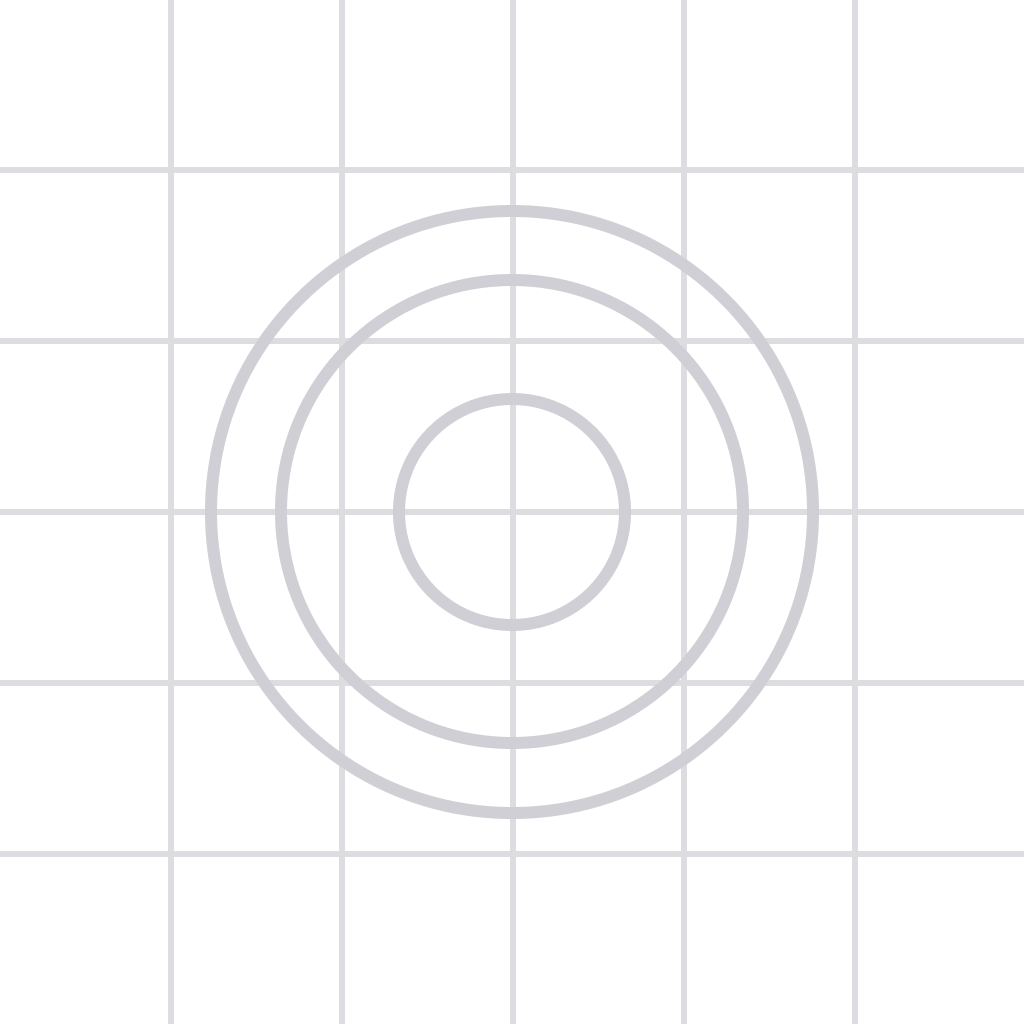
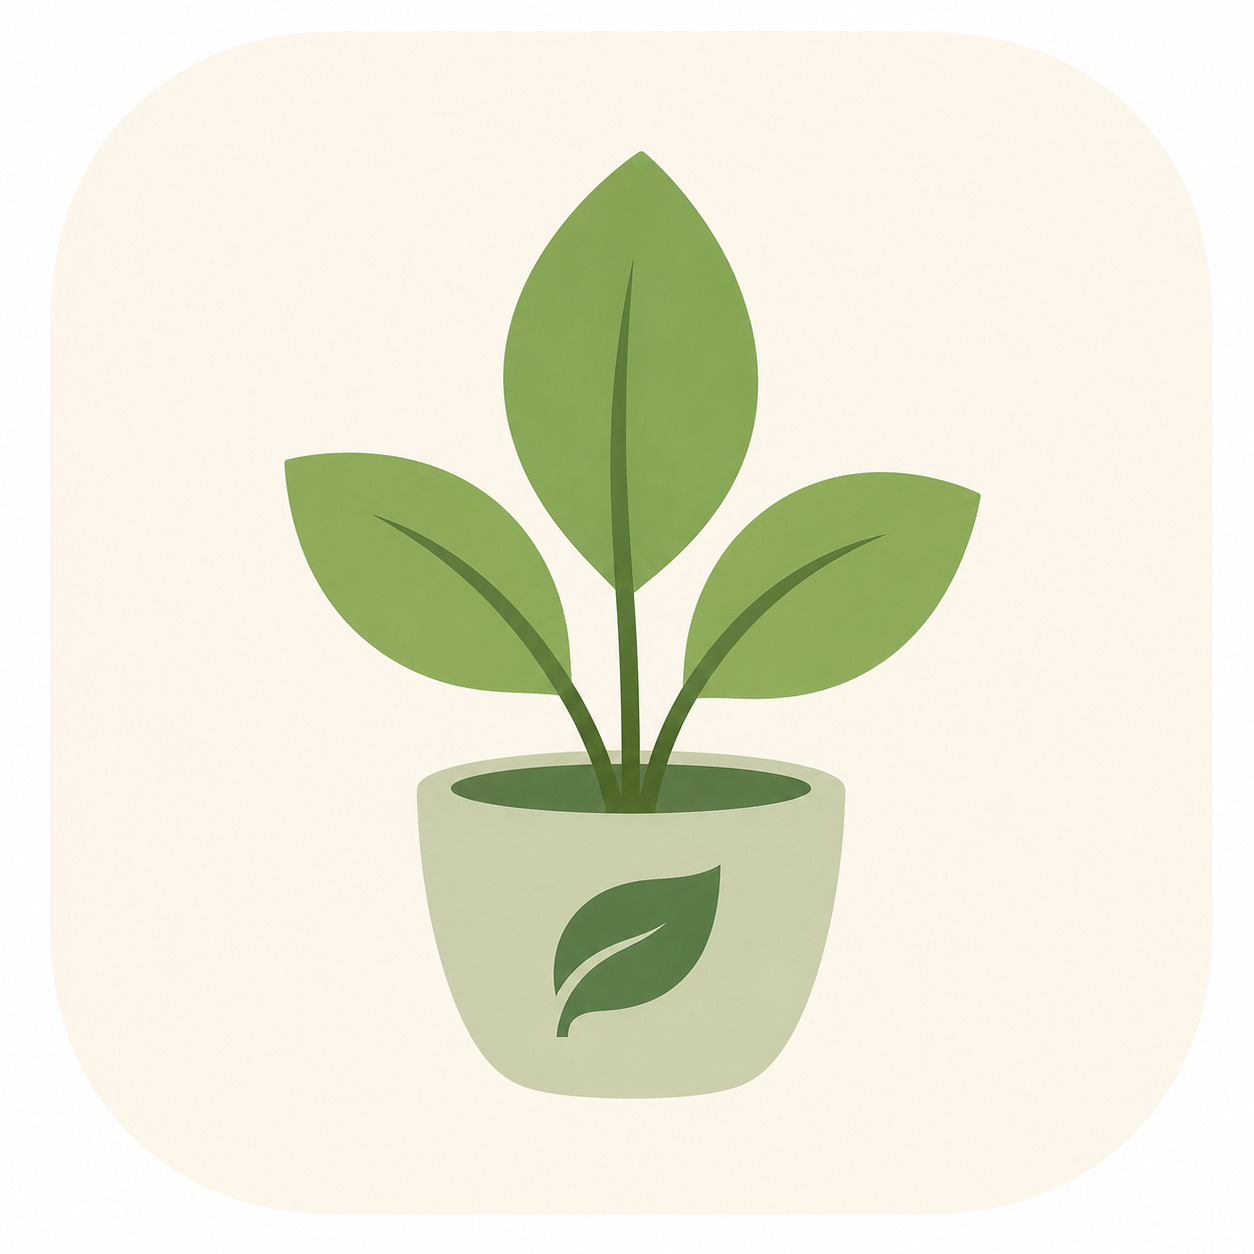
APK: Implementierung Supabase konfiguration und validation; update app struktur und dependencies

Changed region(s): [[0.0, 0.0, 1.0, 1.0]]

diff --git a/App.js b/App.js
@@ -6,7 +6,10 @@ import {
 import { NavigationContainer } from "@react-navigation/native";
 import { createNativeStackNavigator } from "@react-navigation/native-stack";
 
-import { supabase } from "./src/services/supabaseClient";
+import {
+  supabase,
+  supabaseKonfigurationOk,
+} from "./src/services/supabaseClient";
 
 import AnmeldungScreen from "./src/screens/AnmeldungScreen";
 import RegistrierungScreen from "./src/screens/RegistrierungScreen";
@@ -24,6 +27,11 @@ export default function App() {
   const [laedt, setLaedt] = useState(true);
 
   useEffect(() => {
+    if (!supabaseKonfigurationOk) {
+      setLaedt(false);
+      return;
+    }
+
     async function sessionLaden() {
       const { data } = await supabase.auth.getSession();
       setSession(data.session);
@@ -42,6 +50,20 @@ export default function App() {
       listener.subscription.unsubscribe();
     };
   }, []);
+
+  if (!supabaseKonfigurationOk) {
+    return (
+      <View style={{ flex: 1, justifyContent: "center", padding: 24 }}>
+        <AppText style={{ fontSize: 24, fontWeight: "bold", marginBottom: 12 }}>
+          Konfiguration fehlt
+        </AppText>
+        <AppText style={{ fontSize: 16 }}>
+          Supabase ist nicht korrekt eingerichtet. Bitte prüfe die
+          EAS-Umgebungsvariablen für den Preview-Build.
+        </AppText>
+      </View>
+    );
+  }
 
   if (laedt) {
     return (

diff --git a/src/services/supabaseClient.js b/src/services/supabaseClient.js
@@ -5,11 +5,17 @@ import { createClient } from "@supabase/supabase-js";
 const supabaseUrl = process.env.EXPO_PUBLIC_SUPABASE_URL;
 const supabasePublishableKey = process.env.EXPO_PUBLIC_SUPABASE_PUBLISHABLE_KEY;
 
-export const supabase = createClient(supabaseUrl, supabasePublishableKey, {
-  auth: {
-    storage: AsyncStorage,
-    autoRefreshToken: true,
-    persistSession: true,
-    detectSessionInUrl: false,
-  },
-});
+export const supabaseKonfigurationOk = Boolean(
+  supabaseUrl && supabasePublishableKey
+);
+
+export const supabase = supabaseKonfigurationOk
+  ? createClient(supabaseUrl, supabasePublishableKey, {
+      auth: {
+        storage: AsyncStorage,
+        autoRefreshToken: true,
+        persistSession: true,
+        detectSessionInUrl: false,
+      },
+    })
+  : null;